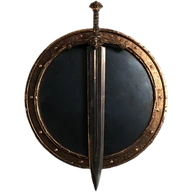
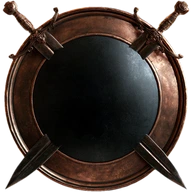
Médaillon d'attaque aux épées croisées, médaillons plus petits, chiffres en Cinzel 900 incluse dans le jeu
Claude-Session: https://claude.ai/code/session_019Y8PinEExK6Cr4Mpa8SoKX

diff --git a/src/ui/cristal.css b/src/ui/cristal.css
@@ -348,3 +348,10 @@ body:has(#app:is([data-mode="combat"],[data-mode="district"])){background:
   -webkit-text-stroke:3px #120c08;paint-order:stroke fill;text-shadow:0 1px 2px rgba(0,0,0,.9)}
 #app:is([data-mode="combat"],[data-mode="district"]) .geste.chaine .g-val b{font-size:17px}
 #app:is([data-mode="combat"],[data-mode="district"]) .geste .g-effet{position:absolute;bottom:calc(100% + 3px)}
+/* médaillon plus discret, chiffres en Cinzel 900 (incluse dans le jeu) : épais et droits, lisibles en petit */
+@font-face{font-family:'Cinzel Force';src:url('./polices/cinzel-900.woff2') format('woff2');font-weight:900;font-display:block}
+#app:is([data-mode="combat"],[data-mode="district"]) .geste .g-val{width:25px;height:25px;left:calc(var(--ep) * .3);bottom:calc(var(--ep) + 13px)}
+#app:is([data-mode="combat"],[data-mode="district"]) .geste.chaine .g-val{width:29px;height:29px;bottom:calc(var(--ep) + 24px)}
+#app:is([data-mode="combat"],[data-mode="district"]) .geste .g-val.atk .g-sym{transform:none}
+#app:is([data-mode="combat"],[data-mode="district"]) .geste .g-val b,#app:is([data-mode="combat"],[data-mode="district"]) .geste.chaine .g-val b{font-family:'Cinzel Force',var(--display);font-weight:900;font-size:12px;letter-spacing:-.02em;-webkit-text-stroke:2.5px #120c08;transform:translateY(.5px)}
+#app:is([data-mode="combat"],[data-mode="district"]) .geste.chaine .g-val b{font-size:14px}
